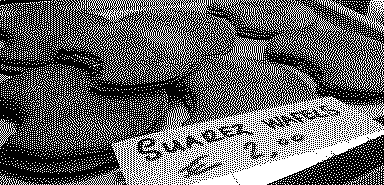
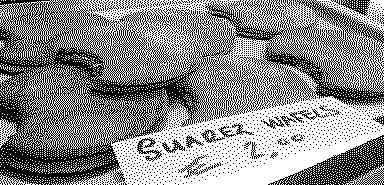
pics improvements

diff --git a/test.html b/test.html
@@ -1,1 +1,1 @@
-curl -X POST -d 'html=<html><head><meta charset="utf-8"></head><body><h1>LP Dither.</h1><img class="dither" src=""><h1>PS Dither.</h1><img class="dither" src=""><h1>No dither at all.</h1><img src=""></body></html>' http://remote.bergcloud.com/playground/direct_print/YOURCODEHERE
+curl -X POST -d 'html=<html><head><meta charset="utf-8"></head><body><h1>LP Dither.</h1><img class="dither" src="https://raw.githubusercontent.com/raphaelmartin/Ticket-de-Presse/master/img/dither.png"><h1>PS Dither.</h1><img class="dither" src="https://raw.githubusercontent.com/raphaelmartin/Ticket-de-Presse/master/img/nodither.png"><h1>No dither at all.</h1><img src="https://raw.githubusercontent.com/raphaelmartin/Ticket-de-Presse/master/img/dither.png"></body></html>' http://remote.bergcloud.com/playground/direct_print/DHG3SZW87K9Z
